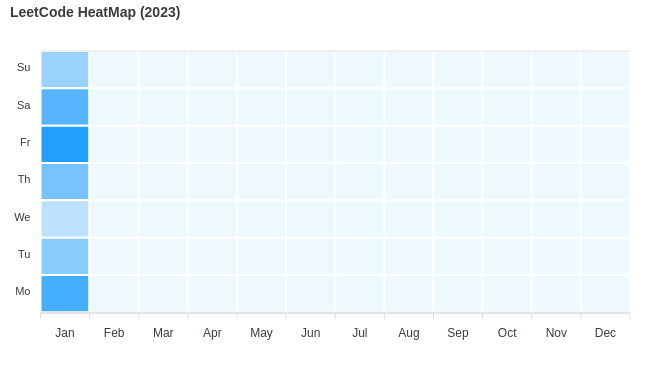
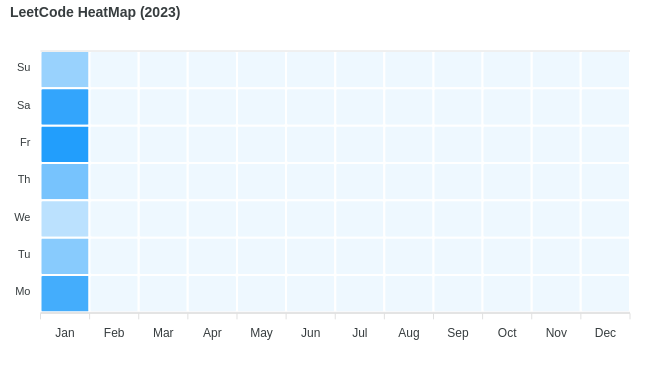
update heatmap.png

Changed region(s): [[0.0615, 0.2411, 0.1538, 0.3616]]

diff --git a/README.md b/README.md
@@ -4,7 +4,7 @@
 
 Collection of LeetCode questions to ace the coding interview! - Created using [LeetHub](https://github.com/QasimWani/LeetHub)
 
-> Questions solved 242 uniq: 102
+> Questions solved 244 uniq: 103
 
 ## Contribution 
 
